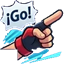
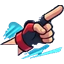
Order sin el bocadillo Go!; quitar la raya a media altura de la barra inferior

diff --git a/tools/pokeassets/UiSkin.cs b/tools/pokeassets/UiSkin.cs
@@ -85,12 +85,13 @@ public static class UiSkin
 				using (var pen = new Pen(border, borderWidth))
 					g.DrawPath(pen, path);
 			}
-			// brillo interior arriba
+			// brillo interior arriba: solo en las esquinas de arriba (dentro del image-border), si llega
+			// a la zona central que se estira se ve como una raya a media altura
 			var inner = new RectangleF(r.X + borderWidth + 1, r.Y + borderWidth + 1, r.Width - 2 * borderWidth - 2, r.Height - 2 * borderWidth - 2);
 			using (var path = Round(inner, Math.Max(2, radius - borderWidth - 1)))
 			using (var pen = new Pen(Color.FromArgb(45, 255, 255, 255), 1))
 			{
-				g.SetClip(new RectangleF(0, 0, w, inner.Y + inner.Height / 2));
+				g.SetClip(new RectangleF(0, 0, w, halo + radius));
 				g.DrawPath(pen, path);
 				g.ResetClip();
 			}
